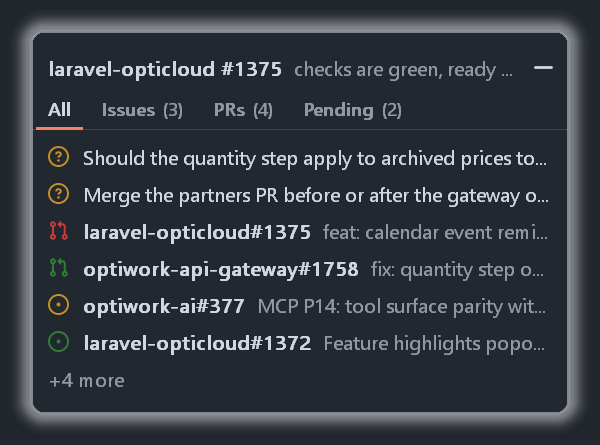
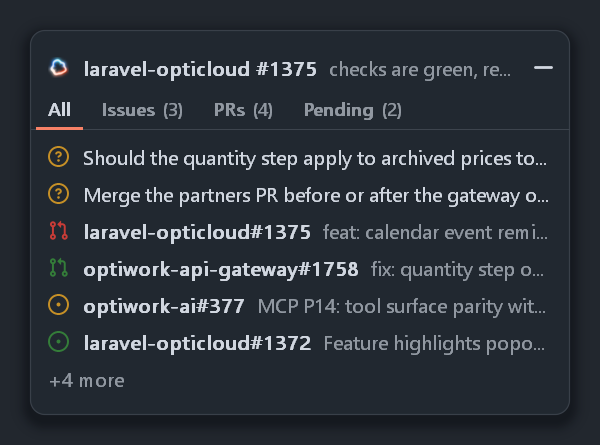
docs(panel): the speaking card carries a mini orb
Rewrites the Speaking section around the orb rather than the halo, with a
fresh panel-speaking.png and a new panel-speaking-pill.png beside it, both
straight out of --panel-preview. Notes what the two size adaptations are
and why the reserved slot outlives the caption; corrects the per-frame cost
paragraph, the preview table and the README bullet; and points overlay.md's
aurora formula at its second caller.

Changed region(s): [[0.03, 0.0292, 0.99, 0.964]]

diff --git a/docs/references/attention-panel.md b/docs/references/attention-panel.md
@@ -299,29 +299,51 @@ finding the header.
 ## Speaking
 
 <p align="center">
-  <img src="../panel-speaking.png" width="520" alt="the card lit by a white halo, its header carrying the caption title and caption instead of the summary">
+  <img src="../panel-speaking.png" width="520" alt="the card with a small orb at the head of its header line, which carries the caption title and caption instead of the summary">
 </p>
 
 When an utterance is aimed at a window — `speak.exe --title "…" "text"`, or
-`--hwnd`, or `--session` — the card parked in that window's corner **glows with
-the voice**: an soft white halo off its own outline, its hairline lit, intensity
-riding the same amplitude envelope the orb is drawn from, so the ring in the
-corner of the screen and the card in the corner of the terminal move together
-rather than merely coinciding. White, deliberately, and not the ring's ember: on
-the card that read as a warning rather than as a voice, and the panel already
-spends red, amber and green on what its rows *mean*. (`#f0f3f6` rather than pure
-white, which blooms harder than it looks against a pale terminal.) It lights with
-the first sample and lets go over a second and a half
-— linearly, so the halo actually reaches zero rather than merely approaching it,
-with one last frame drawn when it does. The collapsed pill glows the same way, and a card that is hidden (its
-terminal tab in the background) does not glow at all — there is nothing there to
-light.
+`--hwnd`, or `--session` — **the orb turns up on the card** parked in that
+window's corner: a mini one, a glyph wide, at the head of the header line, with
+the title moved over by a glyph and cut to what is left.
+
+<p align="center">
+  <img src="../panel-speaking-pill.png" width="240" alt="a collapsed pill with the mini orb where its icon usually is">
+</p>
+
+A collapsed pill gets it in the slot its **icon** was already in — the icon
+fades out under it and back in afterwards — so a pill that starts talking does
+not change shape. On an open card the slot is reserved for the length of the
+fade and collapses in one rebuild at the end, so the title does not shuffle
+sideways while the orb is still on it.
+
+It is the *same object* as the ring in the corner of the screen, not a small
+thing that also pulses: the same `ComposeAurora`, so the same outline churned by
+the same amplitude (silence is a true circle, loud passages get sharp kinks), the
+same ember→white-hot→azure ramp travelling round it, the same slow spin, the same
+idle breath keeping it alive between words — driven off the same beacon, sample
+for sample, so the two move together rather than merely coinciding. Two things
+are adapted for the size: it is composed several times larger (at least 64 px
+across, so 4–5× depending on the display's scale) and box-filtered down, because the
+wobble is what the object *is* and at 14 px a hard-edged ring loses it to
+aliasing; and the rim and its bloom are given in output pixels rather than scaled
+with the radius, which is what it takes for a dozen pixels to still read as a
+luminous ring instead of a dot. (A white *halo* around the card's outline came
+first and is gone. It said "this one is talking" and nothing more; the orb says
+it with the object Fernando is already watching.)
+
+It arrives with the first sample and lets go over a second and a half —
+linearly, so the fade actually reaches zero rather than merely approaching it,
+with one last frame drawn when it does. A card that is hidden (its terminal tab
+in the background) gets no orb at all: there is nothing there to draw on.
 
 While it lasts, the header line carries what is being *said* instead of what the
 session is working on: `--caption-title` in bold, `--caption` beside it, back to
-the summary when the voice stops. What the voice is saying about this terminal is
-the more urgent of the two, and it is the same line either way rather than a row
-that appears and shoves the list down.
+the summary when the orb has finished fading. What the voice is saying about this
+terminal is the more urgent of the two, and it is the same line either way rather
+than a row that appears and shoves the list down. Both revert on the same
+rebuild, deliberately: the line snapping back while the orb was still on it read
+as two things ending at two different times.
 
 The card is matched by **resolved `hwnd`**, never by comparing titles: whichever
 registration owns the card currently shown in that window is the context for that
@@ -337,7 +359,7 @@ fixed-size UDP datagram every other frame (~30 Hz) to loopback on the port after
 the pointing one (`8125` by default), each carrying the whole state — target
 window, level, caption title and caption. No setup, no teardown, no session; the client sends a last few with
 `active` clear when the voice is done, and a *gap* in the datagrams ends it too —
-so a client killed mid-sentence cannot leave a card glowing forever. A stream of tiny HTTP requests at that rate would have
+so a client killed mid-sentence cannot leave an orb on a card forever. A stream of tiny HTTP requests at that rate would have
 queued `/panel` behind it.
 
 `GET /panels` reports it as `speaking`.
@@ -397,13 +419,15 @@ Almost none of a card changes between frames — the shadow, the fill, the
 hairline, the header rule, the icons and every glyph of text are fixed until the
 content is. So they are composed once, when the card is built, into two
 premultiplied layers (everything under the interactive parts and everything over
-them) plus the halo's shape; and a frame is a copy, a hovered band, a glow whose
-*brightness* is all that follows the voice, and the top layer. That is 0.3 ms a
-frame instead of 5.5, which matters because a glowing card redraws twenty-five
-times a second on the same thread that answers every panel `POST`. Nothing is
-pushed to the screen at all unless the geometry, the hover, the content or the
-glow actually changed: an idle daemon with a card on screen measures 0.0% of a
-core.
+them); and a frame is a copy, a hovered band, the top layer, and the mini orb —
+a couple of thousand pixels of ring composed into a 14 px box, the only thing on
+the card that is redrawn from scratch. That is 0.3 ms a frame instead of 5.5 (0.6
+ms with the orb on it, measured by `--panel-preview`), which matters because a
+speaking card redraws twenty-five times a second on the same thread that answers
+every panel `POST`. Nothing is pushed to the screen at all unless the geometry,
+the hover, the content or the orb actually changed: an idle daemon with a card on
+screen measures 0.0% of a core, and only the one card the beacon names redraws
+while a voice is going.
 
 One thread owns every panel window — they are created, drawn, bound and clicked
 there, so no panel state needs a lock, and the endpoint only leaves a command
@@ -527,7 +551,8 @@ enough to be cut and two items too many so the `+N more` row appears:
 | `<prefix>-pending.png` | the `Pending` tab, two questions |
 | `<prefix>-summary-only.png` | a summary and nothing else |
 | `<prefix>-summary-only-pill.png` | what that card collapses to: the `info` glyph and `Info` |
-| `<prefix>-speaking.png` | mid-utterance: lit, the header carrying the caption |
+| `<prefix>-speaking.png` | mid-utterance: the orb on the header line, which carries the caption |
+| `<prefix>-speaking-pill.png` | the same on a pill: the orb in the icon's slot |
 | `<prefix>-popover-pr.png` | a fully populated pull request popover |
 | `<prefix>-popover-issue.png` | the same for an issue |
 | `<prefix>-popover-question.png` | a question: the whole text and `click to copy` |

diff --git a/CHANGELOG.md b/CHANGELOG.md
@@ -9,6 +9,21 @@ in `version.h`, and a `v*` tag ships whatever that header says.
 
 ## [Unreleased]
 
+### Changed
+
+- **The speaking card carries a mini orb instead of a white halo.** While an
+  utterance is aimed at a window, the card in that window's corner now shows the
+  orb itself, a glyph wide, animated from the same per-frame amplitude beacon:
+  the same outline churned by the voice, the same ember→white→azure ramp
+  travelling round it, the same idle breath between words — the real orb math,
+  scaled, rather than a second animation that also pulses. On the collapsed pill
+  it takes over the leading icon's slot, so a pill that starts talking does not
+  change shape; on an open card it opens the header line and the title moves over
+  by a glyph, cut to what is left. The white halo around the outline is gone, and
+  with it the baked halo layer. The captions and the orb now leave together at
+  the end of the fade, rather than the header snapping back while the card was
+  still lit. `--panel-preview` gained `<prefix>-speaking-pill.png`.
+
 ## [1.0.0] — 2026-09-09
 
 First release with a prebuilt binary. Everything below already existed in the

diff --git a/README.md b/README.md
@@ -58,7 +58,7 @@ speak.exe "Hello world."      # ~100 ms to first audio
 - **Clickable rows**: pull requests and issues open in the browser, work directories in Explorer
 - **Tabs** — `All`, `Issues`, `PRs`, `Pending` — six rows by default, `+N more` to expand everything, and a **one-line pill** when collapsed
 - **Pending questions**: what an agent is waiting on you for, sorted to the top; click to copy
-- **Glows with the voice** when speech is aimed at its window, carrying the caption in its header
+- **The orb turns up on the card** when speech is aimed at its window — a mini one, churning with the same voice — and the header carries the caption while it lasts
 - **Hover popover** with the full title, labels, assignees, reviewers and their verdicts, and the check counts
 - Filled by the included Claude Code hooks, with an optional Haiku relevance pass and a headless GitHub status enricher the daemon runs
 

diff --git a/docs/references/overlay.md b/docs/references/overlay.md
@@ -41,6 +41,13 @@ per pixel:    dr   = distance − R(θ)
               bleed= gauss(−dr / 0.5R)      ← light leaking inward (dr < 0 only)
 ```
 
+The same composer draws the **mini orb** on a speaking attention card
+([attention-panel.md](attention-panel.md)): same formula, same drives, same
+beacon, composed at 4–5× into a ~14 px box and box-filtered down, with the two
+`gauss` widths above given in output pixels instead of scaled with `R₀` — they
+are the ring's only absolute dimensions, and at that size proportional ones are
+a fraction of a pixel each.
+
 Two independent drives, which is what makes it read as *listening* rather than
 merely animated:
 
